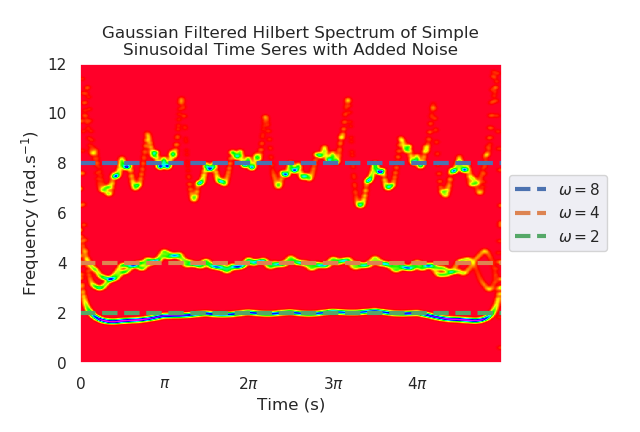
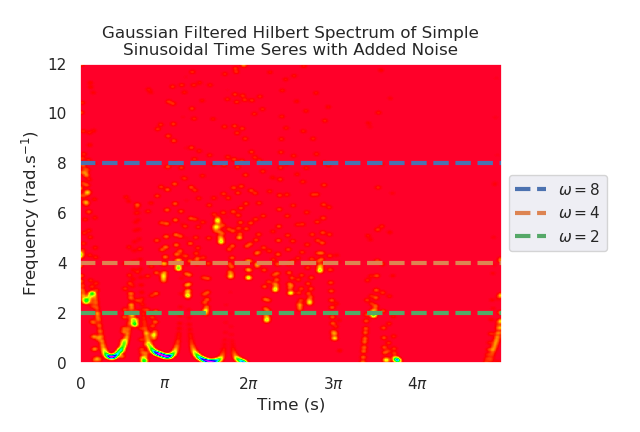
Did refractors.

diff --git a/emd_basis.py b/emd_basis.py
@@ -410,17 +410,24 @@ class Basis:
                 matrix_c[tau, :] = un_interpolated
         elif optimise_speed:
             time_extended = time_extension(self.time)
+            time_extended = time_extension(time_extended)
             basis_opt = Basis(time=time_extended, time_series=time_extended)
+            total_knots = len(knots)
+            mid_knots = total_knots
             un_interpolated = basis_opt.hilbert_b(knots=knots[0:5], degree=3)
             nan_bool = np.isnan(un_interpolated)  # find nan values and create bool
             un_interpolated[nan_bool] = np.interp(time_extended[nan_bool], time_extended[~nan_bool],
                                                   un_interpolated[~nan_bool], left=0, right=0)  # interpolate nan values
-            interpolated_subset = un_interpolated[int(len(self.time) - 1):int(2 * len(self.time) - 1)]
+            interpolated_subset = un_interpolated[int(4 * len(self.time) - 1):int(5 * len(self.time) - 1)]
             matrix_c[0, :] = interpolated_subset
+            # plt.plot(matrix_c[0, :])
             for tau in range(1, num_c):
+                if tau == 11:
+                    test = 0
                 matrix_c[tau, :] = \
-                    un_interpolated[int(len(self.time) - 1 - int(tau * ((len(self.time) - 1) / (len(knots) - 1)))):
-                                    int(2 * len(self.time) - 1 - int(tau * ((len(self.time) - 1) / (len(knots) - 1))))]
+                    un_interpolated[int(4 * len(self.time) - 1 - int(tau * ((len(self.time) - 1) / (len(knots) - 7)))):
+                                    int(5 * len(self.time) - 1 - int(tau * ((len(self.time) - 1) / (len(knots) - 7))))]
+                # plt.plot(matrix_c[tau, :])
 
         return matrix_c
 

diff --git a/CASE_STUDY_noise.py b/CASE_STUDY_noise.py
@@ -13,11 +13,6 @@ end = 1
 points = int(7.5 * 512)
 x = np.linspace(begin, end, points)
 
-type = 'blue'
-
-beta = 2  # Brownian noise
-sample = cn.powerlaw_psd_gaussian(beta, points)
-
 for dB in ['brown', 'brown', 'red', 'blue', 'violet']:
 
     signal_1 = np.sin(250 * np.pi * x ** 2)

diff --git a/README.md b/README.md
@@ -20,7 +20,7 @@ import numpy as np
 import seaborn as sns
 import matplotlib.pyplot as plt
 
-from AdvEMDpy import EMD
+from AdvEMDpy.AdvEMDpy import EMD
 
 sns.set(style='darkgrid')
 
